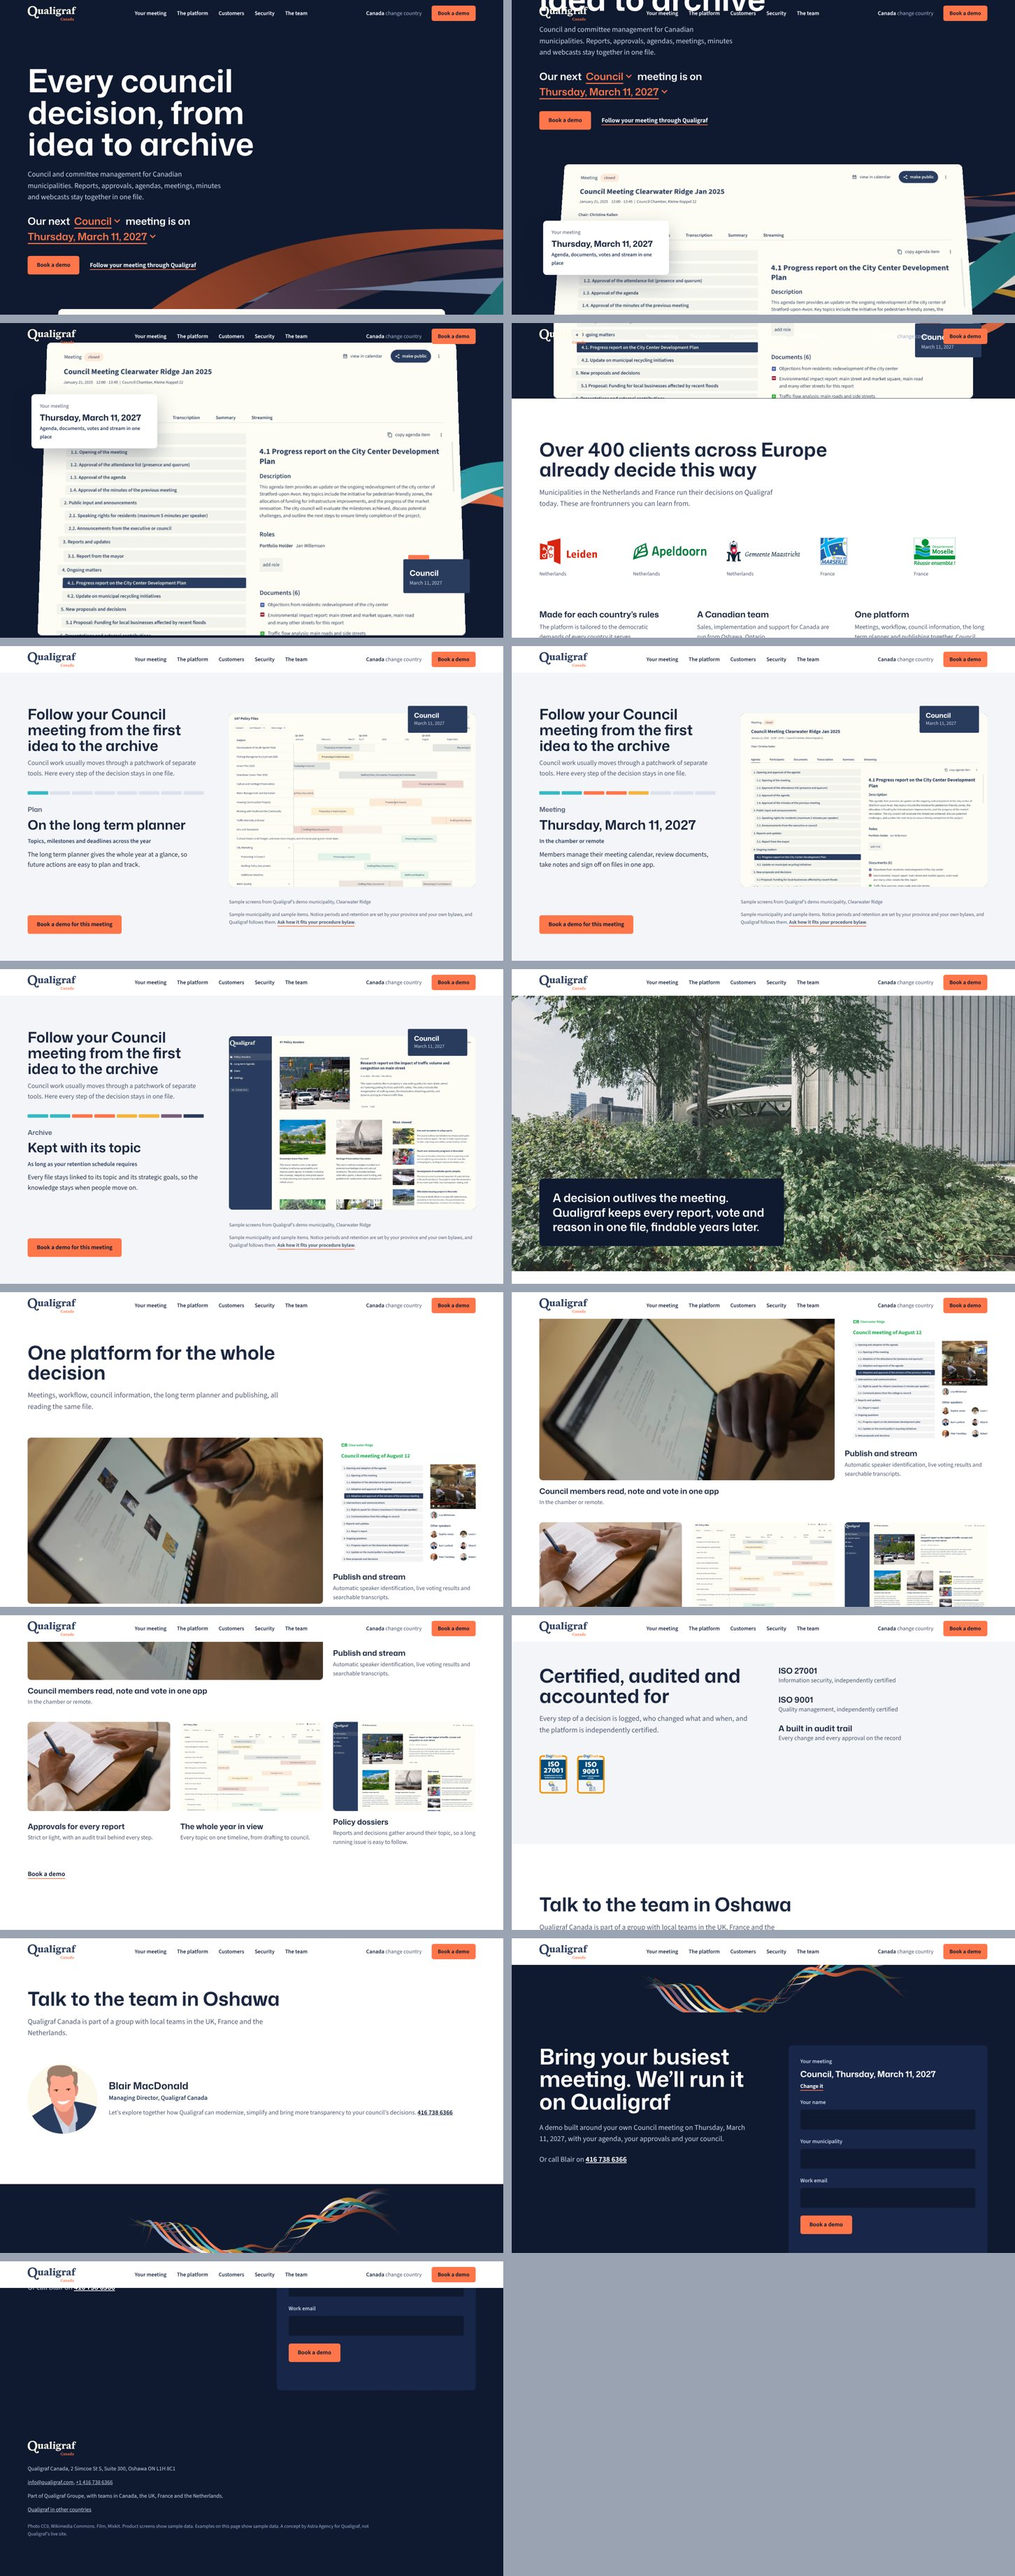
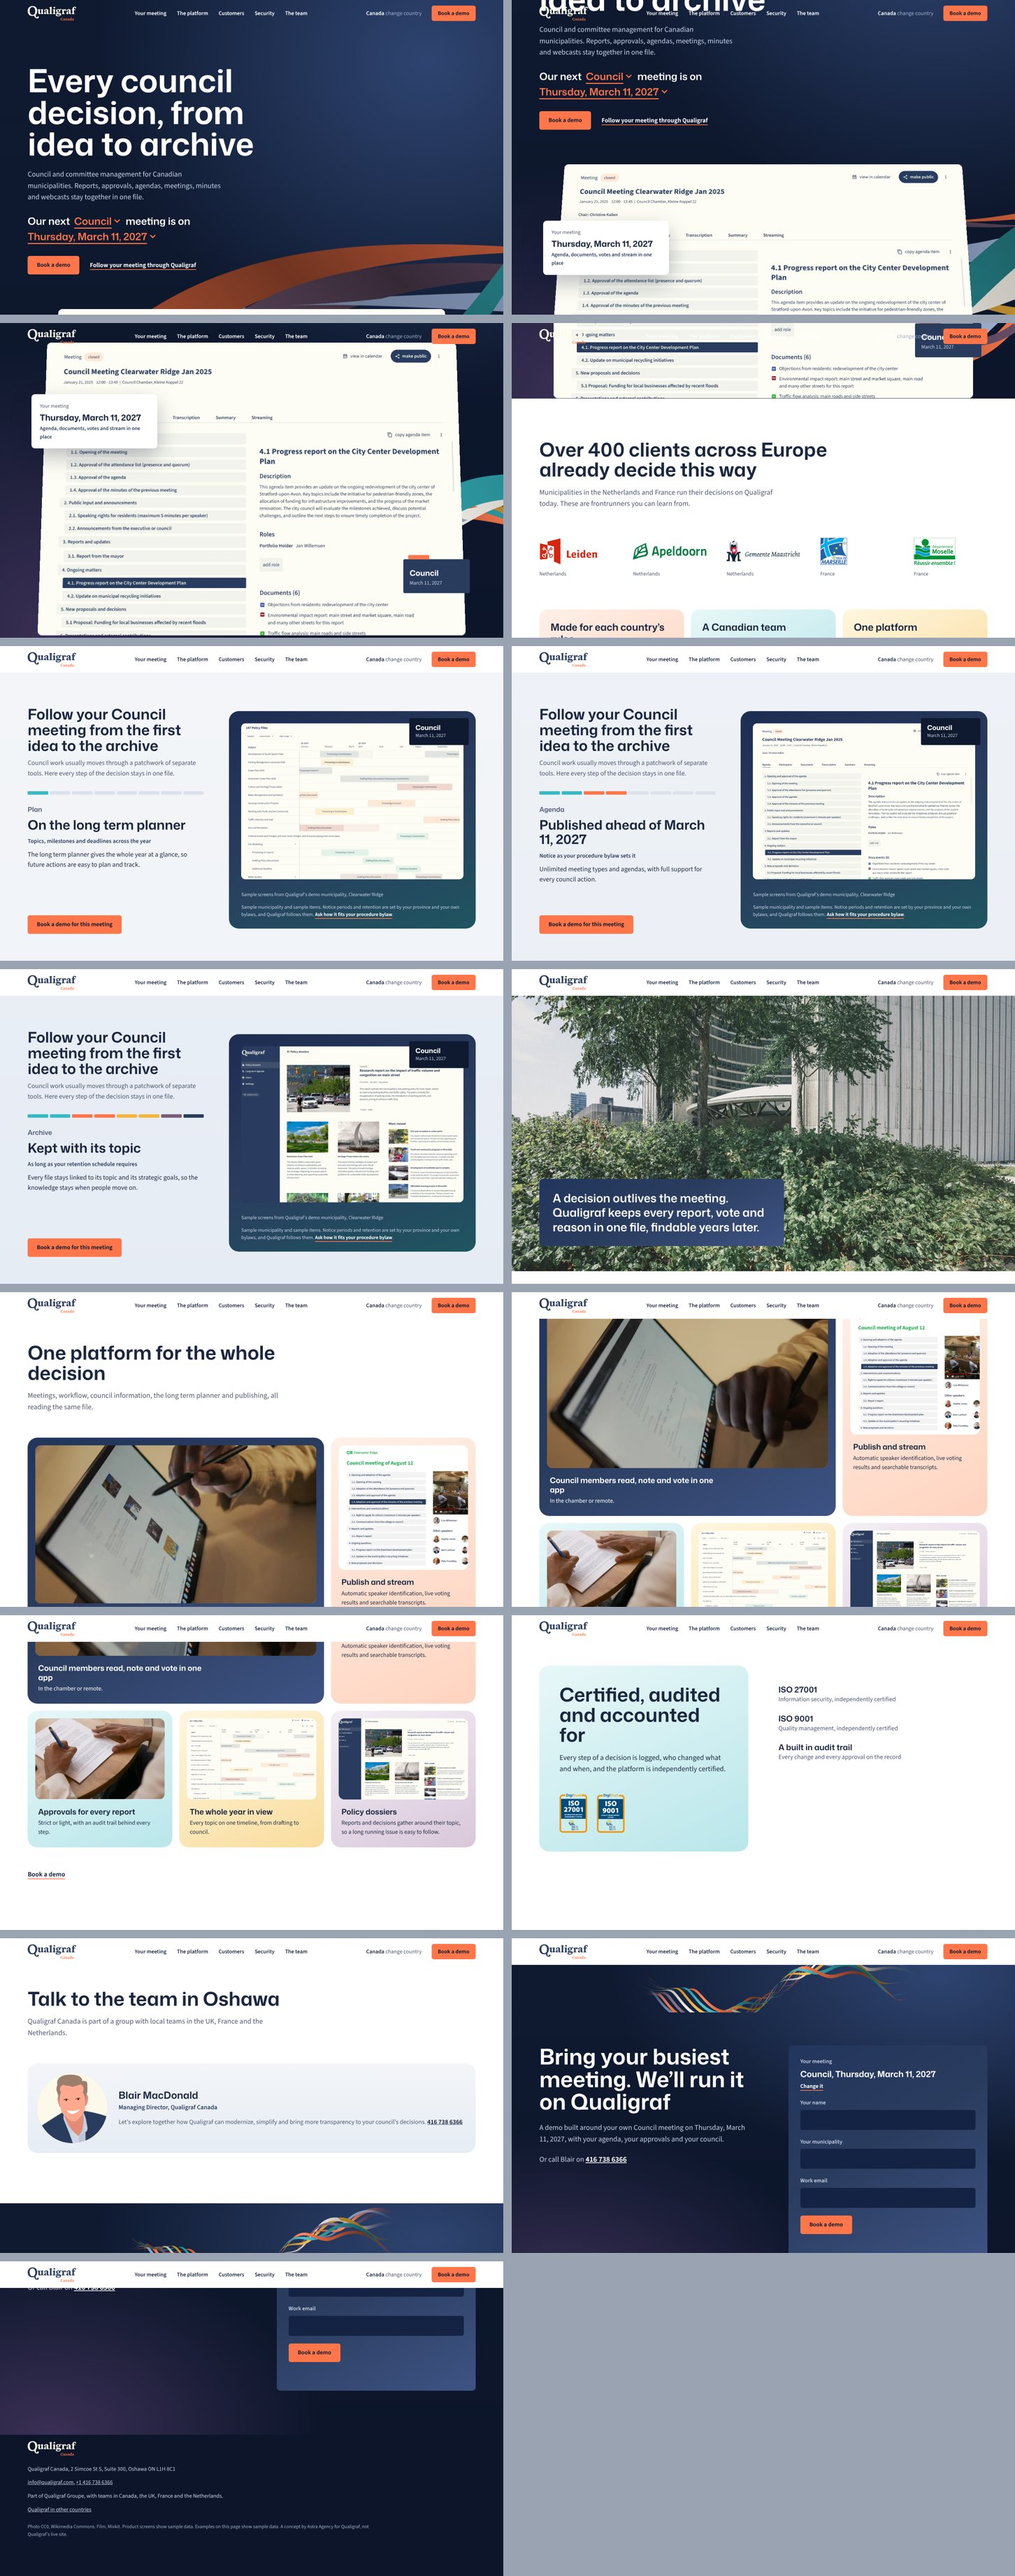
qualigraf v7: Apple style gradients on the big blocks
Wide gradients from their own colours on the hero, invitation, platform tiles, proof blocks, the stage behind
their screens, trust panel, people, form and front door tiles. Text contrast checked against both ends of every
gradient. check-build exit 0 on all five pages, axe clean at both sizes.

Claude-Session: https://claude.ai/code/session_01D1X6QMYG26N3x8UXdsVS4u

diff --git a/state/prototypes/qualigraf/v7/site/assets/site.css b/state/prototypes/qualigraf/v7/site/assets/site.css
@@ -251,3 +251,76 @@ img, video { max-width: 100%; display: block; }
 .invite .art { height: 32vh; bottom: auto; }
 @media (max-width: 760px) { .invite .art { height: 24vh; } }
 .offices .quiet { display: inline-block; margin-top: 14px; font-size: 17px; color: var(--white); }
+
+/* Gradients on the big pieces, Apple style (Raka, 6 Nov). Their own colours only, smooth and wide, never on small parts. */
+:root {
+  --g-deep: radial-gradient(120% 90% at 85% 10%, #2E4470 0%, rgba(46, 68, 112, 0) 55%), radial-gradient(90% 80% at 10% 100%, #3A2F55 0%, rgba(58, 47, 85, 0) 60%), linear-gradient(180deg, #0F1A31 0%, #0C1529 100%);
+  --g-navy: linear-gradient(150deg, #22355C 0%, #2A3C5E 45%, #3E5384 100%);
+  --g-coral: linear-gradient(155deg, #FFF0E8 0%, #FFD3BF 100%);
+  --g-teal: linear-gradient(155deg, #E8F7F8 0%, #B9E6EA 100%);
+  --g-mustard: linear-gradient(155deg, #FFF6E0 0%, #F9DC9C 100%);
+  --g-plum: linear-gradient(155deg, #F4EEF5 0%, #D8C7DA 100%);
+  --g-stage: linear-gradient(160deg, #1D2D52 0%, #2A3C5E 50%, #1E5560 100%);
+  --g-mist: linear-gradient(180deg, #F3F5F8 0%, #E6ECF4 100%);
+}
+.hero, .invite, .door-hero { background-color: var(--deep); background-image: var(--g-deep); }
+.offices-band, .foot { background-color: #0C1529; }
+
+/* proof, three big blocks */
+.facts { gap: 20px; }
+.facts p { border-radius: 24px; padding: 34px 32px 38px; color: var(--ink); min-height: 220px; }
+.facts p:nth-child(1) { background: var(--g-coral); }
+.facts p:nth-child(2) { background: var(--g-teal); }
+.facts p:nth-child(3) { background: var(--g-mustard); }
+.facts b { font-size: 28px; margin-bottom: 14px; }
+.facts a { color: var(--ink); }
+
+/* the track, their screens on a gradient stage */
+.track { background-color: var(--mist); background-image: var(--g-mist); }
+.track-screen { background: var(--g-stage); border-radius: 28px; padding: 5% 5% 4%; }
+.screens { border-radius: 12px; }
+.screens-note, .track-screen .rule-note { color: #C8D2E5; }
+.track-screen .rule-note .quiet { color: var(--white); }
+.screen-chip { top: 20px; right: 20px; background: var(--deep); }
+
+/* the room line */
+.room-line { background: var(--g-navy); }
+
+/* the platform, big gradient blocks with the film and screens inside */
+.bento { gap: 20px; }
+.tile { border-radius: 28px; padding: 22px 22px 30px; gap: 22px; }
+.tile .media { border-radius: 16px; }
+.tile figcaption { color: var(--ink); padding: 0 8px; }
+.t1 { background: var(--g-navy); }
+.t1 figcaption, .t1 figcaption b { color: var(--white); }
+.t2 { background: var(--g-coral); }
+.t3 { background: var(--g-teal); }
+.t4 { background: var(--g-mustard); }
+.t5 { background: var(--g-plum); }
+
+/* trust, one big panel */
+.trust { background: var(--white); }
+.trust > div { background: var(--g-teal); border-radius: 28px; padding: 6vh 4vw; }
+.trust > div .intro { color: var(--ink); }
+.trust ul { padding-top: 6vh; }
+
+/* the people, on soft blocks */
+.person { background: var(--g-mist); border-radius: 28px; padding: 28px; }
+
+/* the form, a gradient panel */
+.book { background: var(--g-navy); }
+.field input { background: #142243; }
+
+/* the front door tiles */
+.countries a { background: linear-gradient(160deg, #2A3C5E 0%, #18264A 100%); border-radius: 24px; padding: 14px 14px 22px; }
+.countries img { border-radius: 14px; }
+.countries b, .countries span { padding: 0 8px; }
+
+@media (max-width: 760px) {
+  .tile { padding: 16px 16px 24px; border-radius: 22px; }
+  .facts p { min-height: 0; }
+  .trust > div { padding: 32px 22px; }
+  .person { padding: 18px; }
+  .track-screen { border-radius: 20px; }
+  .countries a { padding: 10px 10px 16px; border-radius: 18px; }
+}

diff --git a/state/prototypes/qualigraf/v7/site/assets/door.js b/state/prototypes/qualigraf/v7/site/assets/door.js
@@ -17,4 +17,4 @@ const li = pick && list && list.querySelector(`[data-country="${pick}"]`);
 if (li) { li.classList.add('first'); list.prepend(li); }
 
 // the art, loose ribbons drifting over the four countries
-mount(document.querySelector('.door-hero .art'), { merge: () => 0, x: 6.6, y: 2.2, rz: .5, spread: 3.2, mx: 0, my: .4 });
+mount(document.querySelector('.door-hero .art'), { merge: () => 0, x: 8.2, y: 2.4, rz: .5, spread: 3.2, mx: 0, my: .4 });

diff --git a/state/prototypes/qualigraf/v7/research/card.md b/state/prototypes/qualigraf/v7/research/card.md
@@ -21,6 +21,14 @@ carries a picture, a film or a live piece of product, never a text block on its 
 - Canva's image generator was tried first (a paper decision file over a dawn lake). It only hands back a 200 pixel preview and
   the full file stays inside Canva, so it isn't used. Code art is also licence clean and moves.
 
+## Gradients on the big pieces (Raka, 6 Nov, "Use gradients for block big pieces is fine ... Like APPLE!")
+
+Wide, smooth gradients from their own colours on the large blocks only. The hero and the invitation (a navy and plum glow on deep
+navy), the platform tiles (navy, coral, teal, mustard and plum blocks with the film and screens inside), the three proof blocks,
+the stage behind their screens on the track, the trust panel, the people, the form and the front door tiles. Never on buttons,
+text or small parts, and no purple to blue. Text contrast was worked out against both ends of every gradient, the lowest is
+the coral sentence pick on the brightest hero glow, 3.6 to 1, which passes as large text. Everything else is 5 to 1 or more.
+
 ## The pictures
 
 - **Their product**, Qualigraf's own demo screens, the hero window and the eight track screens, labelled sample.
